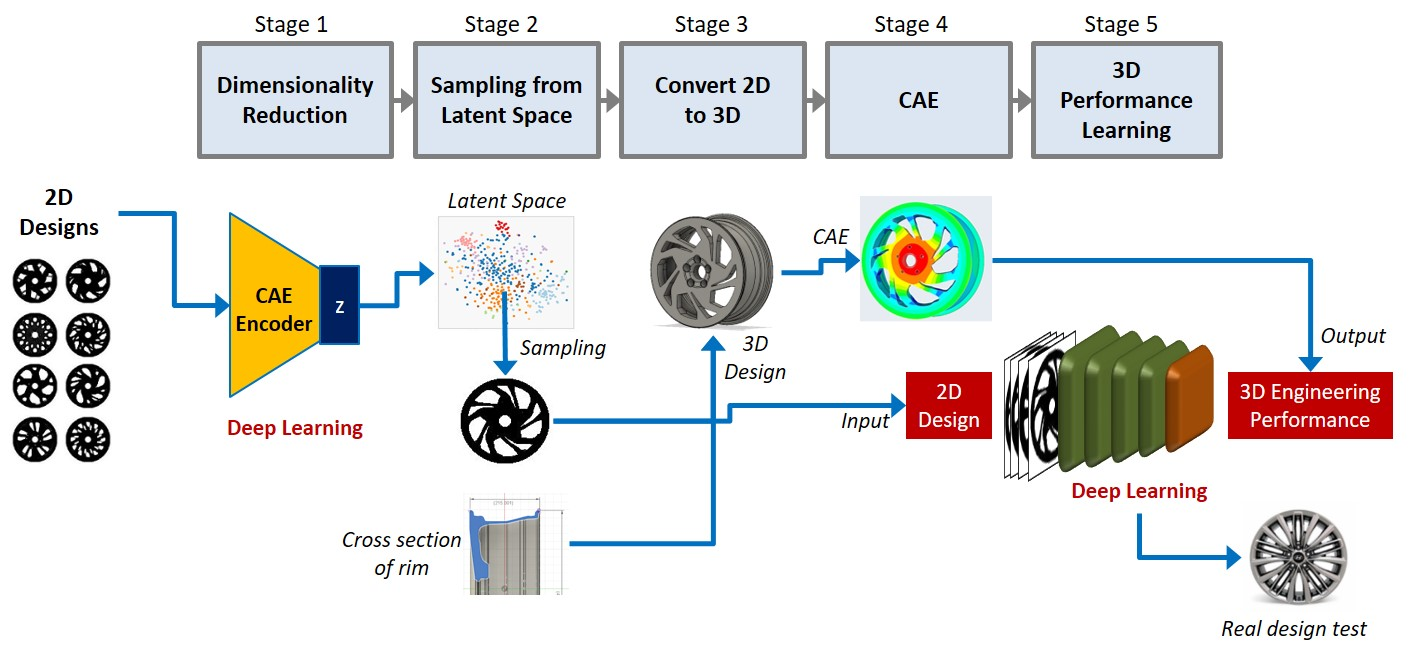
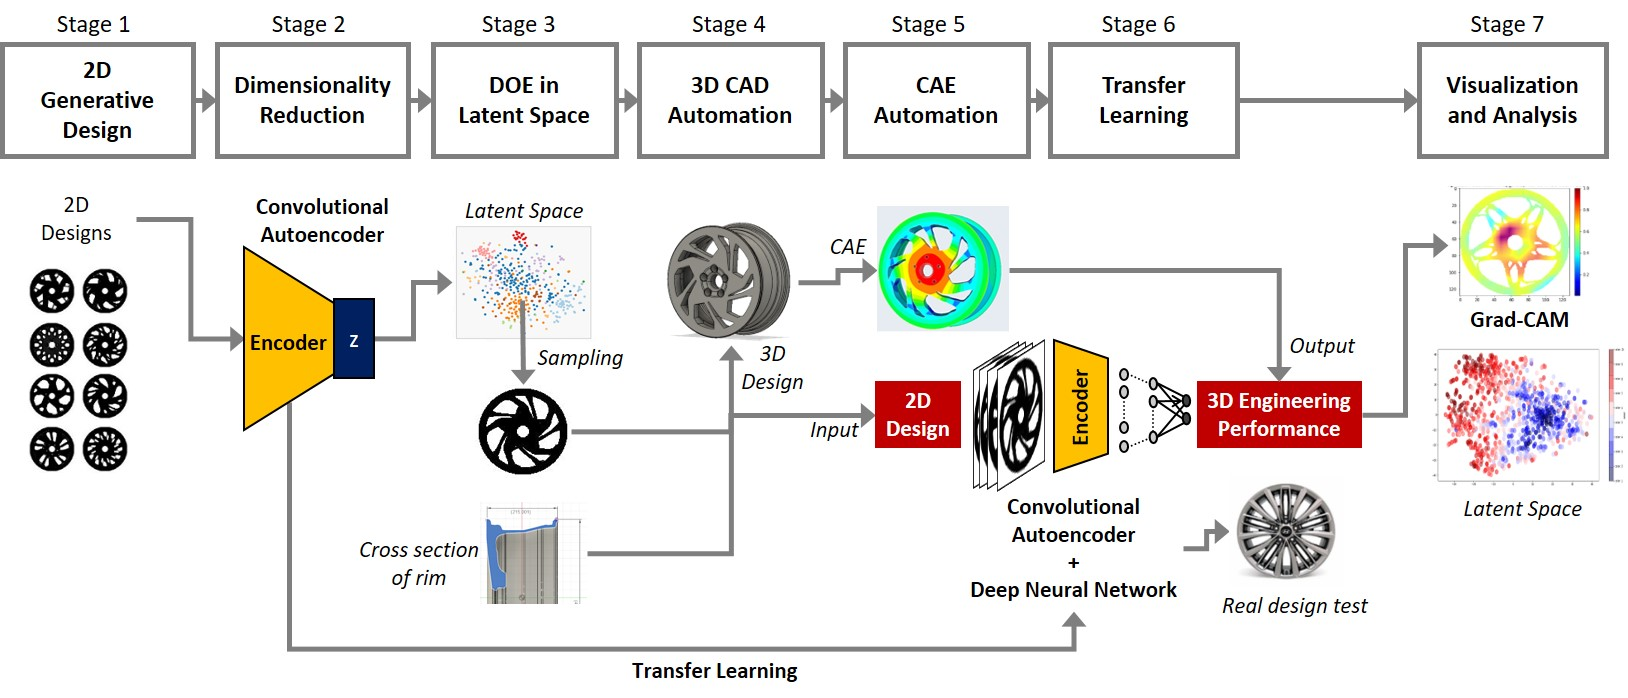
0526v2

diff --git a/portfolio-single-research14.html b/portfolio-single-research14.html
@@ -182,7 +182,7 @@
 					<div class="col-md-4">
 						<ul class="project-details">
 <!--							<li class="font-alt">Categories: <a href="#">Machine Laerning</a>,<a href="#">Design Optimization</a></li>   -->
-																					<li class="font-alt"><b>Paper:</b><br><i> Asian Congress of Structural and Multidisciplinary Optimization</i>, 2020.</li>
+																					<li class="font-alt"><b>Paper:</b><br><i> Computer Methods in Applied Mechanics and Engineering (Under Review)</i></li>
 						<!--<li class="font-alt"><i> International Design & Engineering Technical Conferences</i>, 2018. <a href="papers/KangIDETC2018.pdf" target="_blank"><font color="#FFA500">(PDF)</font></a></li> -->
 						<!--		<li class="font-alt">Released: 23 November 2015</li>
 							<li class="font-alt">Online: <a href="#">www.site.com</a></li>
@@ -198,13 +198,11 @@
 					<div class="col-md-8">
 						<div class="row multi-columns-row">
 							<div class="col-sm-6 col-md-12 mb-30">
-								<h5 class="font-alt m-t-0">Can Deep Learning Predict the Performance of 3D Structural Designs Based on 2D Structural Designs?
+								<h5 class="font-alt m-t-0">Integrating Deep Learning into CAD/CAE System: Case Study on Road Wheel Design Automation
+
 </h5>
 								<p>
-								The development of AI algorithms and computing power has raised expectations for generative design technologies that create new design options without human intervention. Generation design can automatically create thousands of topology design options by varying the problem definition parameters of topology optimization. In our previous work, Oh et al. (2019) proposed a deep generative design framework that iteratively integrates generative models of deep learning and generative designs. This framework uses only a small amount of previous design data to create vast amounts of new design options that meet both engineering performance and product aesthetics. Previous work focused on creating 2D structural designs, but it is necessary to evaluate the performance of 3D structures to ensure the safety of the final product. However, even with the latest technology, creating thousands of 3D structures directly is very difficult. Therefore, the research question is how to predict the performance of 3D structures based on 2D structural designs.
-<br>
-The current study proposes a design evaluation process using deep learning models which consists of five stages: (1) dimensionality reduction, (2) sampling in latent space, (3) converting 2D designs to 3D designs, (4) computer-aided engineering (CAE) simulation, and  (5) learning the performance of 3D designs. For the case study, we use the 2D wheel design data (front view) generated by Oh et al. (2019). First, the proposed process maps 2D wheel design data into latent space. Second, 2D wheel design samples are drawn from latent space. Third, 2D wheel design samples are automatically converted to 3D wheel designs. Fourth, 3D wheel designs are automatically evaluated through modal analysis. Finally, 2D designs and model analysis results are used for input and output of deep learning, respectively. In the end, the proposed deep learning model can predict the performance of 3D structural design based on 2D structural design, and we show that the whole evaluation process is done completely automatically.
-
+								Research regarding design automation that integrates artificial intelligence (AI) into computer-aided design (CAD) and computer-aided engineering (CAE) is actively being conducted. This study proposes a deep learning-based CAD/CAE framework that automatically generates three-dimensional (3D) CAD models, predicts CAE results immediately, explains the results, and verifies the reliability. The proposed framework comprises seven stages: (1) two-dimensional (2D) generative design, (2) dimensionality reduction, (3) design of experiment in latent space, (4) CAD automation, (5) CAE automation, (6) transfer learning, and (7) visualization and analysis. The proposed framework is demonstrated through a road wheel design case study and indicates that AI can be practically incorporated into end-use product design. Using this framework, it is expected that industrial designers and engineers can jointly review feasible engineering 3D CAD models created by AI and select the best design for the market in the early stages of product development. In addition, because the proposed deep learning model can predict CAE results based on 2D disc-view design, industrial designers can obtain instant feedback regarding the engineering performance of 2D concept sketches. 
 								</p>
 							</div>
 							
